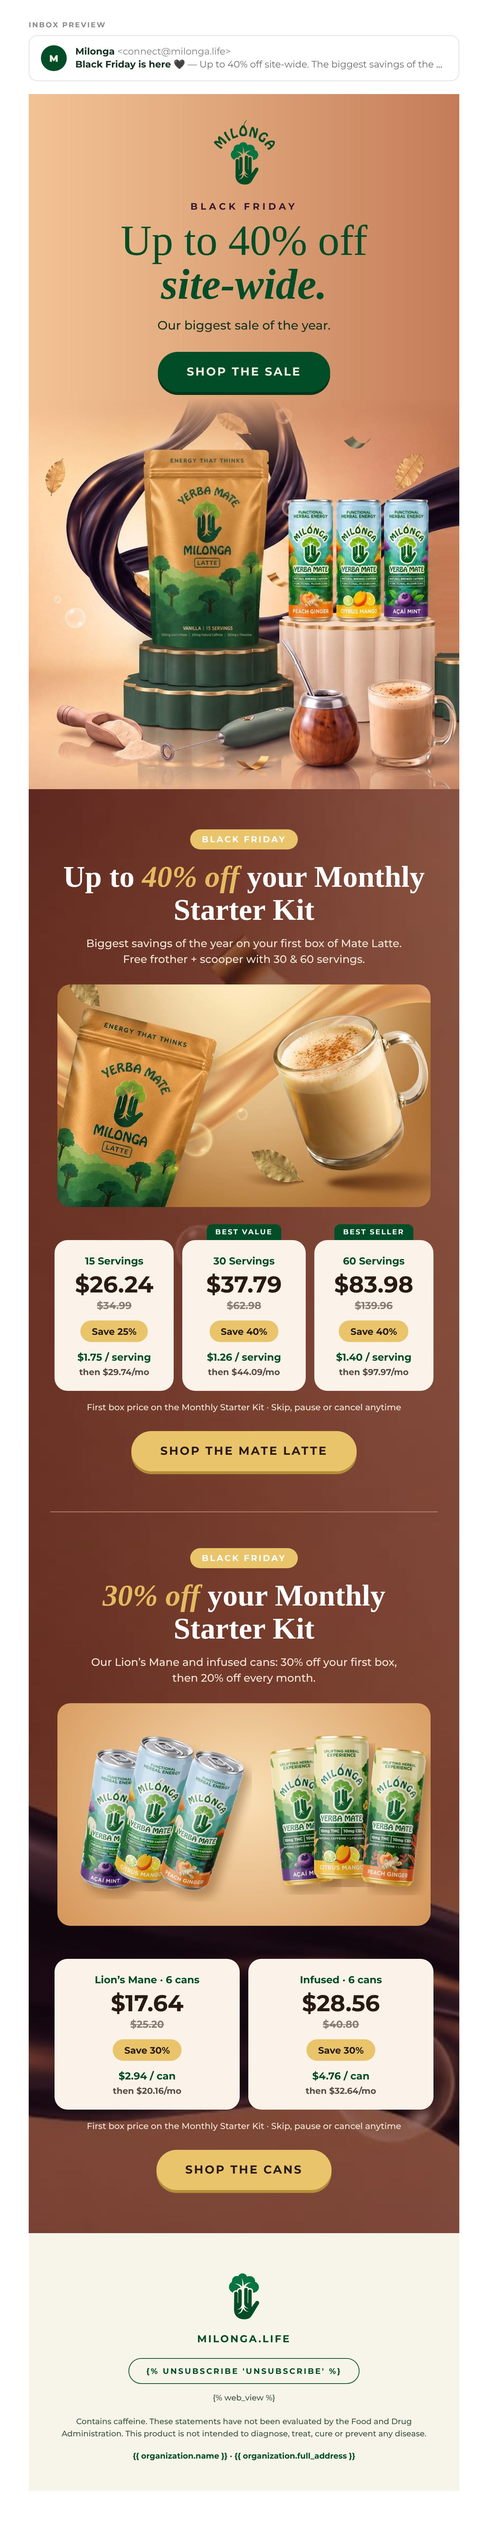
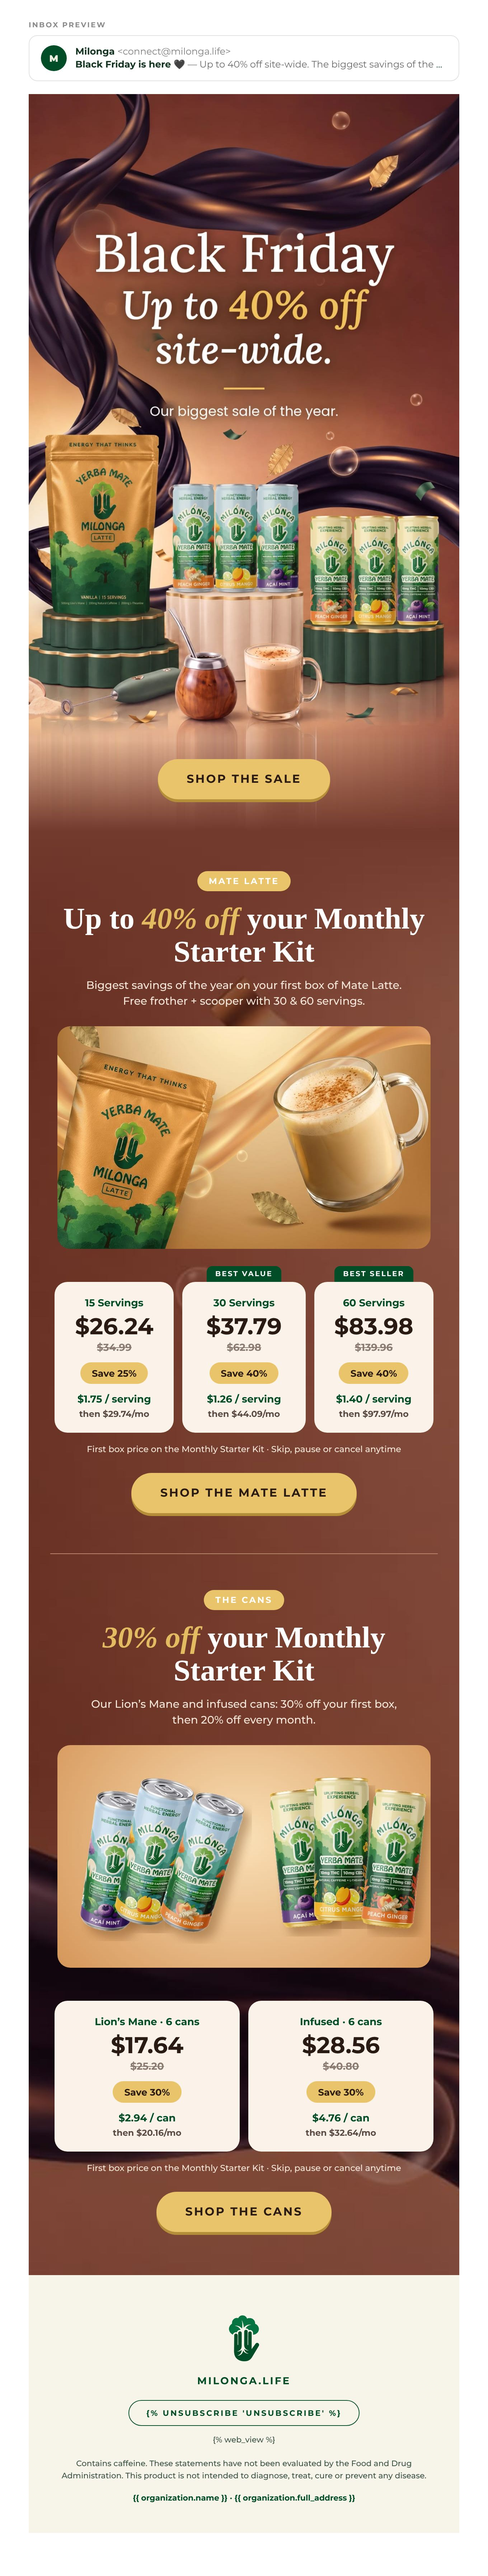
Black Friday 2026: Bernat's poster as the hero, offers pills renamed, seamless strip
Claude-Session: https://claude.ai/code/session_01NhEtXPnfeCJfN73SqBkUZ5

diff --git a/email-ds/refine/bf-2026.html b/email-ds/refine/bf-2026.html
@@ -36,7 +36,7 @@ body{margin:0;background:#FFFFFF;padding:28px 0 60px}
     .bg-white { background-color:#FFFFFF !important; }
     .bg-cream { background-color:#F7F4EA !important; }
     .bg-forest { background-color:#004D27 !important; }
-    .bg-choc { background-color:#5E2F28 !important; }
+    .bg-choc { background-color:#723A2D !important; }
   }
 </style></head><body>
 <div class="inbox"><div class="lab">Inbox preview</div><div class="row"><div class="av">M</div>
@@ -46,27 +46,21 @@ body{margin:0;background:#FFFFFF;padding:28px 0 60px}
 <tr><td align="center">
 <table role="presentation" class="wrap" width="600" cellpadding="0" cellspacing="0" border="0" style="width:600px;max-width:600px;table-layout:fixed;">
 
-<!-- ── 1 · BLACK FRIDAY · the copy on the bronze band, then the scene, which fades up into it ── -->
-<tr><td class="band" align="center" valign="top" background="../exports/klaviyo/bf-2026/img/band.jpg" bgcolor="#DDA27A" style="background-color:#DDA27A;background-image:url('../exports/klaviyo/bf-2026/img/band.jpg');background-size:100% auto;background-position:center top;background-repeat:no-repeat;padding:36px 40px 8px;font-family:'Montserrat','Helvetica Neue',Helvetica,Arial,sans-serif;">
-<!--[if gte mso 9]><v:rect xmlns:v="urn:schemas-microsoft-com:vml" fill="true" stroke="false" style="width:600px;height:420px;"><v:fill type="frame" src="../exports/klaviyo/bf-2026/img/band.jpg" color="#DDA27A" /><v:textbox inset="0,0,0,0"><![endif]-->
-<a href="https://milonga.life/?utm_source=klaviyo&amp;utm_medium=email&amp;utm_campaign=black_friday_2026&amp;utm_content=logo" target="_blank" style="display:block;"><img class="logo" src="../exports/klaviyo/welcome-e1/img/logo-green.png" width="85" height="90" alt="Milonga" style="display:block;margin:0 auto;width:85px;height:90px;border:0;"></a>
-<div style="padding-top:22px;font-size:13px;line-height:16px;font-weight:700;letter-spacing:4px;text-transform:uppercase;color:#3A1830;">Black Friday</div>
-<div class="h-hero" style="padding-top:10px;font-family:'Times New Roman',Times,Georgia,serif;font-size:60px;line-height:60px;font-weight:400;color:#004D27;">Up to 40% off</div>
-<div class="h-hero" style="font-family:'Times New Roman',Times,Georgia,serif;font-size:60px;line-height:62px;font-weight:700;font-style:italic;color:#004D27;">site-wide.</div>
-<div class="lead" style="padding-top:14px;font-size:17px;line-height:25px;font-weight:500;color:#12331F;">Our biggest sale of the year.</div>
-<div style="padding-top:24px;"><!--[if mso]>
-<v:roundrect xmlns:v="urn:schemas-microsoft-com:vml" xmlns:w="urn:schemas-microsoft-com:office:word" href="https://milonga.life/collections/all?utm_source=klaviyo&amp;utm_medium=email&amp;utm_campaign=black_friday_2026&amp;utm_content=bf_hero_button" style="height:56px;v-text-anchor:middle;width:280px;" arcsize="50%" stroke="f" fillcolor="#004D27"><w:anchorlock/><center style="color:#F0EFDF;font-family:Arial,sans-serif;font-size:16px;font-weight:bold;letter-spacing:2px;">Shop the sale</center></v:roundrect>
-<![endif]--><!--[if !mso]><!-- --><a href="https://milonga.life/collections/all?utm_source=klaviyo&amp;utm_medium=email&amp;utm_campaign=black_friday_2026&amp;utm_content=bf_hero_button" target="_blank" class="btn" style="display:inline-block;background-color:#004D27;border-radius:999px;padding:20px 40px;font-family:'Montserrat','Helvetica Neue',Helvetica,Arial,sans-serif;font-size:16px;line-height:16px;font-weight:700;letter-spacing:2px;text-transform:uppercase;white-space:nowrap;color:#F0EFDF;text-decoration:none;box-shadow:0 4px 0 #00351B;">Shop the sale</a><!--<![endif]--></div>
-<!--[if gte mso 9]></v:textbox></v:rect><![endif]-->
+<!-- ── 1 · BLACK FRIDAY · Bernat's poster (the copy is in the image; the alt text repeats it), then the
+     button on a strip that carries the poster's bottom edge down into the offers' chocolate ── -->
+<tr><td style="padding:0;font-size:0;line-height:0;"><a href="https://milonga.life/collections/all?utm_source=klaviyo&amp;utm_medium=email&amp;utm_campaign=black_friday_2026&amp;utm_content=bf_hero_image" target="_blank"><img class="full" src="../exports/klaviyo/bf-2026/img/hero.jpg" width="600" height="900" alt="Black Friday. Up to 40% off site-wide. Our biggest sale of the year." style="display:block;width:600px;height:900px;border:0;font-family:'Montserrat','Helvetica Neue',Helvetica,Arial,sans-serif;font-size:24px;line-height:32px;font-weight:700;color:#FFFFFF;text-align:center;background-color:#723A2D;"></a></td></tr>
+<tr><td class="bg-choc" align="center" background="../exports/klaviyo/bf-2026/img/cta-bg.jpg" bgcolor="#723A2D" style="background-color:#723A2D;background-image:url('../exports/klaviyo/bf-2026/img/cta-bg.jpg');background-size:100% 100%;background-repeat:no-repeat;padding:26px 40px 44px;font-family:'Montserrat','Helvetica Neue',Helvetica,Arial,sans-serif;">
+<!--[if mso]>
+<v:roundrect xmlns:v="urn:schemas-microsoft-com:vml" xmlns:w="urn:schemas-microsoft-com:office:word" href="https://milonga.life/collections/all?utm_source=klaviyo&amp;utm_medium=email&amp;utm_campaign=black_friday_2026&amp;utm_content=bf_hero_button" style="height:56px;v-text-anchor:middle;width:280px;" arcsize="50%" stroke="f" fillcolor="#E9C46A"><w:anchorlock/><center style="color:#2A1A14;font-family:Arial,sans-serif;font-size:16px;font-weight:bold;letter-spacing:2px;">Shop the sale</center></v:roundrect>
+<![endif]--><!--[if !mso]><!-- --><a href="https://milonga.life/collections/all?utm_source=klaviyo&amp;utm_medium=email&amp;utm_campaign=black_friday_2026&amp;utm_content=bf_hero_button" target="_blank" class="btn" style="display:inline-block;background-color:#E9C46A;border-radius:999px;padding:20px 40px;font-family:'Montserrat','Helvetica Neue',Helvetica,Arial,sans-serif;font-size:16px;line-height:16px;font-weight:700;letter-spacing:2px;text-transform:uppercase;white-space:nowrap;color:#2A1A14;text-decoration:none;box-shadow:0 4px 0 #B58E3A;">Shop the sale</a><!--<![endif]-->
 </td></tr>
-<tr><td style="padding:0;font-size:0;line-height:0;"><a href="https://milonga.life/collections/all?utm_source=klaviyo&amp;utm_medium=email&amp;utm_campaign=black_friday_2026&amp;utm_content=bf_scene" target="_blank"><img class="full" src="../exports/klaviyo/bf-2026/img/scene.jpg" width="600" height="545" alt="The Mate Latte pouch, Lion’s Mane cans, a mate gourd and a Mate Latte" style="display:block;width:600px;height:545px;border:0;"></a></td></tr>
 
 <!-- ── 2 + 3 · THE STARTER KITS (the website's Black Friday block, on the darkened ribbons) ── -->
-<tr><td class="offer bg-choc" align="center" valign="top" background="../exports/klaviyo/bf-2026/img/offers-bg.jpg" bgcolor="#5E2F28" style="background-color:#5E2F28;background-image:url('../exports/klaviyo/bf-2026/img/offers-bg.jpg');background-size:cover;background-position:center top;background-repeat:no-repeat;padding:0 30px 60px;font-family:'Montserrat','Helvetica Neue',Helvetica,Arial,sans-serif;">
+<tr><td class="offer bg-choc" align="center" valign="top" background="../exports/klaviyo/bf-2026/img/offers-bg.jpg" bgcolor="#723A2D" style="background-color:#723A2D;background-image:url('../exports/klaviyo/bf-2026/img/offers-bg.jpg');background-size:cover;background-position:center top;background-repeat:no-repeat;padding:0 30px 60px;font-family:'Montserrat','Helvetica Neue',Helvetica,Arial,sans-serif;">
 
 <!-- 2 · Mate Latte -->
 <div style="padding-top:56px;">
-<table role="presentation" cellpadding="0" cellspacing="0" border="0" align="center" style="margin:0 auto;border-collapse:separate;"><tr><td bgcolor="#E9C46A" style="background-color:#E9C46A;border-radius:999px;padding:7px 16px;font-family:'Montserrat','Helvetica Neue',Helvetica,Arial,sans-serif;font-size:12px;line-height:14px;font-weight:700;letter-spacing:2px;text-transform:uppercase;color:#FFFFFF;white-space:nowrap;">Black Friday</td></tr></table>
+<table role="presentation" cellpadding="0" cellspacing="0" border="0" align="center" style="margin:0 auto;border-collapse:separate;"><tr><td bgcolor="#E9C46A" style="background-color:#E9C46A;border-radius:999px;padding:7px 16px;font-family:'Montserrat','Helvetica Neue',Helvetica,Arial,sans-serif;font-size:12px;line-height:14px;font-weight:700;letter-spacing:2px;text-transform:uppercase;color:#FFFFFF;white-space:nowrap;">Mate Latte</td></tr></table>
 <div class="h-offer" style="padding-top:16px;font-family:'Times New Roman',Times,Georgia,serif;font-size:42px;line-height:46px;font-weight:700;color:#FFFFFF;">Up to <span style="color:#E3BC62;font-style:italic;">40% off</span> <span style="white-space:nowrap;">your Monthly</span> <span style="white-space:nowrap;">Starter Kit</span></div>
 <div class="lead" style="padding-top:12px;font-size:15px;line-height:22px;font-weight:500;color:#F6E7DA;">Biggest savings of the year on your first box of Mate Latte. <span style="white-space:nowrap;">Free frother + scooper</span> <span style="white-space:nowrap;">with 30 & 60 servings.</span></div>
 <div style="padding-top:24px;"><a href="https://milonga.life/products/the-original-mate-latte?selling_plan=8837562678&amp;variant=54302750245174&amp;utm_source=klaviyo&amp;utm_medium=email&amp;utm_campaign=black_friday_2026&amp;utm_content=bf_ml_30" target="_blank"><img class="photo" src="../exports/klaviyo/bf-2026/img/ml-photo.jpg" width="520" height="310" alt="The Mate Latte pouch and a frothy Mate Latte" style="display:block;margin:0 auto;width:520px;height:310px;border:0;border-radius:18px;"></a></div>
@@ -120,7 +114,7 @@ body{margin:0;background:#FFFFFF;padding:28px 0 60px}
 <!-- 3 · the cans -->
 <div style="padding-top:56px;font-size:0;line-height:0;"><div style="height:1px;line-height:1px;background-color:#B98A6A;font-size:0;">&nbsp;</div></div>
 <div style="padding-top:50px;">
-<table role="presentation" cellpadding="0" cellspacing="0" border="0" align="center" style="margin:0 auto;border-collapse:separate;"><tr><td bgcolor="#E9C46A" style="background-color:#E9C46A;border-radius:999px;padding:7px 16px;font-family:'Montserrat','Helvetica Neue',Helvetica,Arial,sans-serif;font-size:12px;line-height:14px;font-weight:700;letter-spacing:2px;text-transform:uppercase;color:#FFFFFF;white-space:nowrap;">Black Friday</td></tr></table>
+<table role="presentation" cellpadding="0" cellspacing="0" border="0" align="center" style="margin:0 auto;border-collapse:separate;"><tr><td bgcolor="#E9C46A" style="background-color:#E9C46A;border-radius:999px;padding:7px 16px;font-family:'Montserrat','Helvetica Neue',Helvetica,Arial,sans-serif;font-size:12px;line-height:14px;font-weight:700;letter-spacing:2px;text-transform:uppercase;color:#FFFFFF;white-space:nowrap;">The cans</td></tr></table>
 <div class="h-offer" style="padding-top:16px;font-family:'Times New Roman',Times,Georgia,serif;font-size:42px;line-height:46px;font-weight:700;color:#FFFFFF;"><span style="color:#E3BC62;font-style:italic;">30% off</span> <span style="white-space:nowrap;">your Monthly</span> <span style="white-space:nowrap;">Starter Kit</span></div>
 <div class="lead" style="padding-top:12px;font-size:15px;line-height:22px;font-weight:500;color:#F6E7DA;">Our Lion&rsquo;s Mane and infused cans: 30% off your first box, <span style="white-space:nowrap;">then 20% off every month.</span></div>
 <div style="padding-top:24px;"><a href="https://milonga.life/collections/drinks?utm_source=klaviyo&amp;utm_medium=email&amp;utm_campaign=black_friday_2026&amp;utm_content=bf_cans_button" target="_blank"><img class="photo" src="../exports/klaviyo/bf-2026/img/cans-photo.jpg" width="520" height="310" alt="Milonga Lion’s Mane and infused yerba mate cans" style="display:block;margin:0 auto;width:520px;height:310px;border:0;border-radius:18px;"></a></div>
